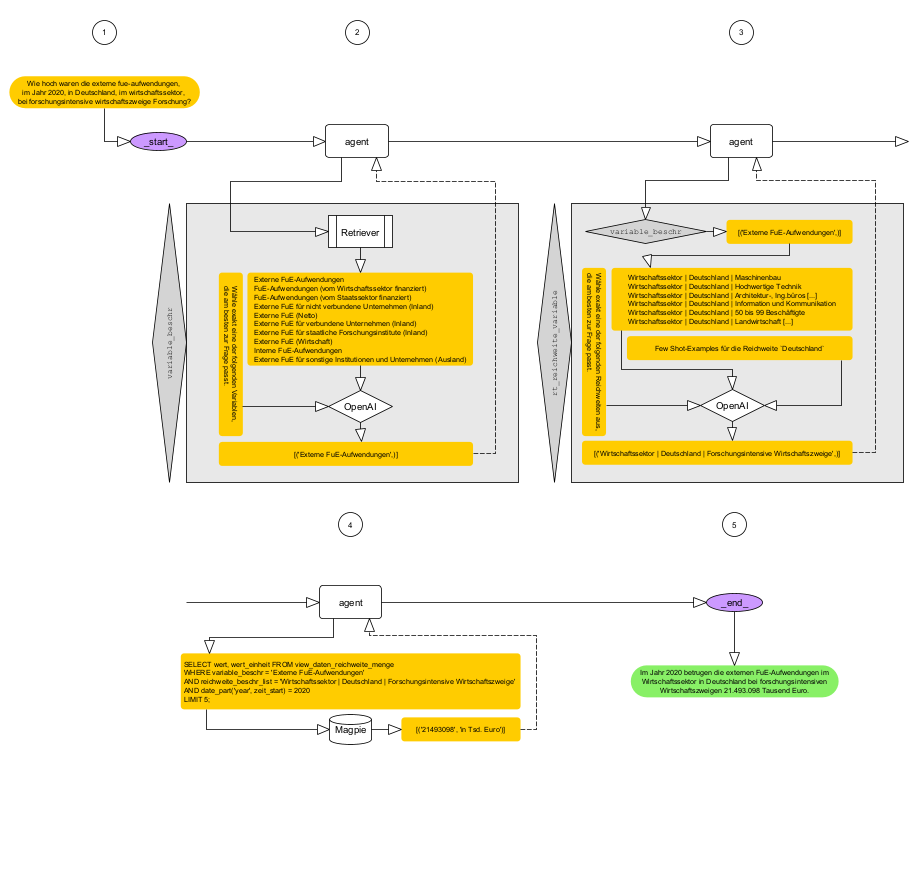
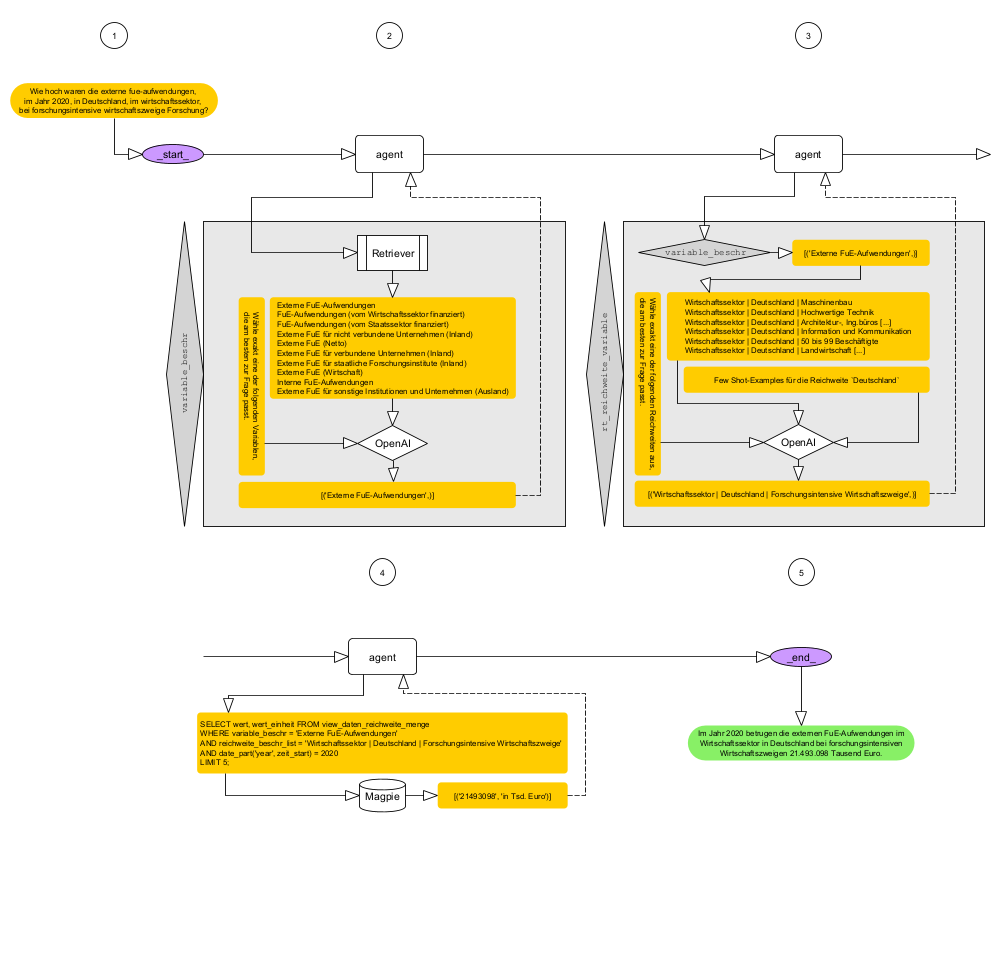
Updates model diagram assets
Switches README image from PNG to SVG format.
Removes outdated PNG and QA model files,
and renames the graphml asset for consistency.

diff --git a/README.md b/README.md
@@ -46,7 +46,7 @@ Das Sparklehorse geht folgendermaßen vor (vgl. Abbildung 1):
    Das Ergebnis der SQL-Abfrage wird in natürliche Sprache übersetzt und dem Nutzer als Antwort zurückgegeben.
 
 
-![Aktuelles Modell](img/curent_model_v_0.0.1.png)
+![Aktuelles Modell](img/curent_model_v_0.0.1.svg)
 
 **Abb. 1:** Sparklehorse (v.0.0.1)
 
